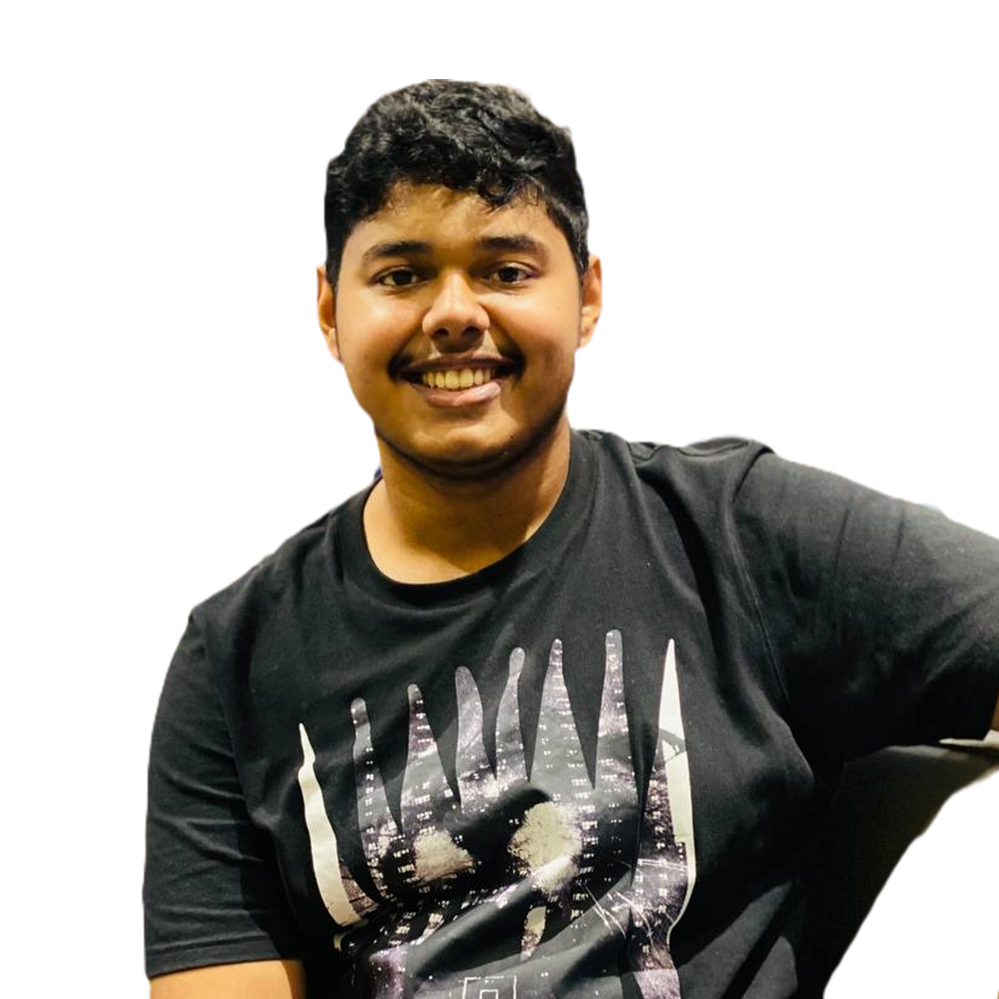
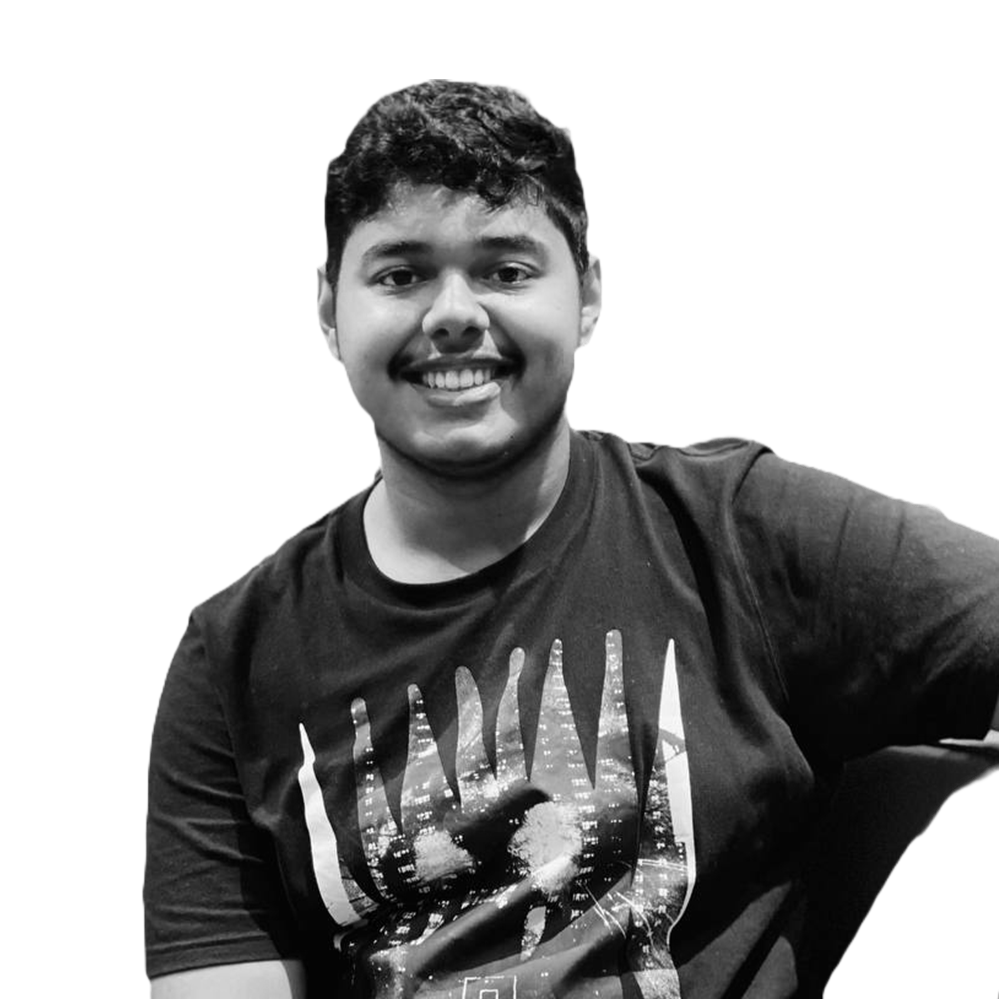
update image and url of vscode extension

diff --git a/index.html b/index.html
@@ -22,7 +22,7 @@
     var DATA = {
       name: "Hey, I'm Anoop",
       subtext: "Software Engineer based in Bangalore, India",
-      jobStatus: "Software Engineer @ RCKR Softwares",
+      jobStatus: "Full-Stack Software Engineer  @ RCKR Softwares",
       githubURL: 'https://github.com/anoopvk',
       linkedinURL: 'https://www.linkedin.com/in/anoop-v-k/',
       resumeURL: 'https://anoopvk.github.io/files/resume.pdf'
@@ -194,7 +194,7 @@
                       Python, OpenCV, threading, and Firebase</p>
                   </div>
                   <div className="project-item">
-                    <a className="project-title" href="" target="_blank">QuickSqlServerSnippets VSCode Extension</a>
+                    <a className="project-title" href="https://marketplace.visualstudio.com/items?itemName=AnoopVK.quicksqlserversnippets" target="_blank">QuickSqlServerSnippets VSCode Extension</a>
                     <p className="project-desc"> A VSCode extension for managing and executing SQL
                       queries on SQL Server databases directly from the editor. It uses the
                       Command Palette to save, run, and delete queries through a simple

diff --git a/css/style.css b/css/style.css
@@ -30,7 +30,7 @@ a {
 }
 
 .left .bg-img {
-  background: url('../img/headshot1-bw.png') center center no-repeat;
+  background: url('../img/headshot1.png') center center no-repeat;
   background-size: cover;
   height: 100%;
   width: 100%;
